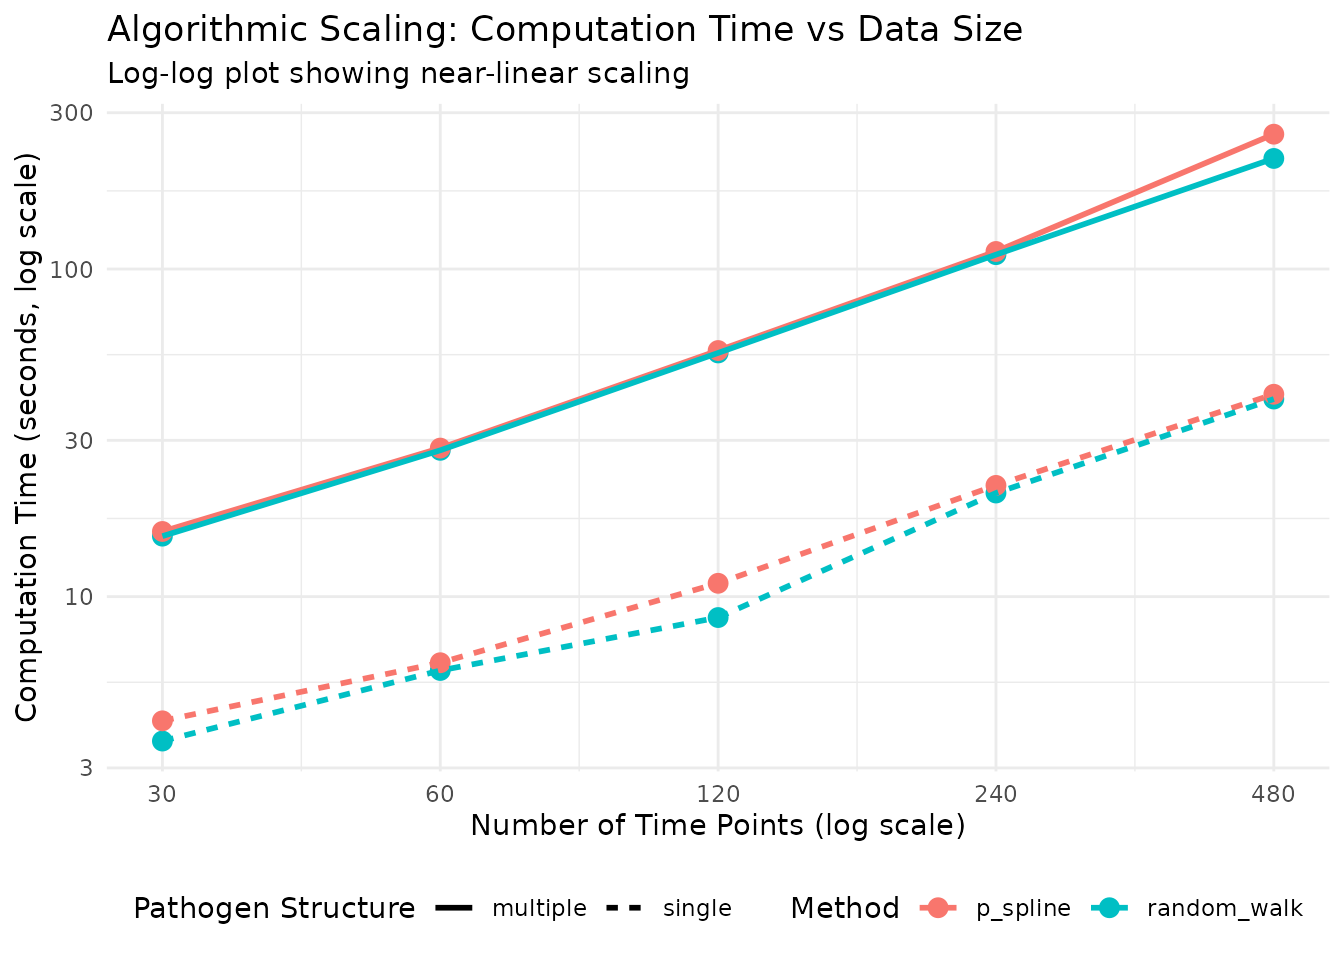
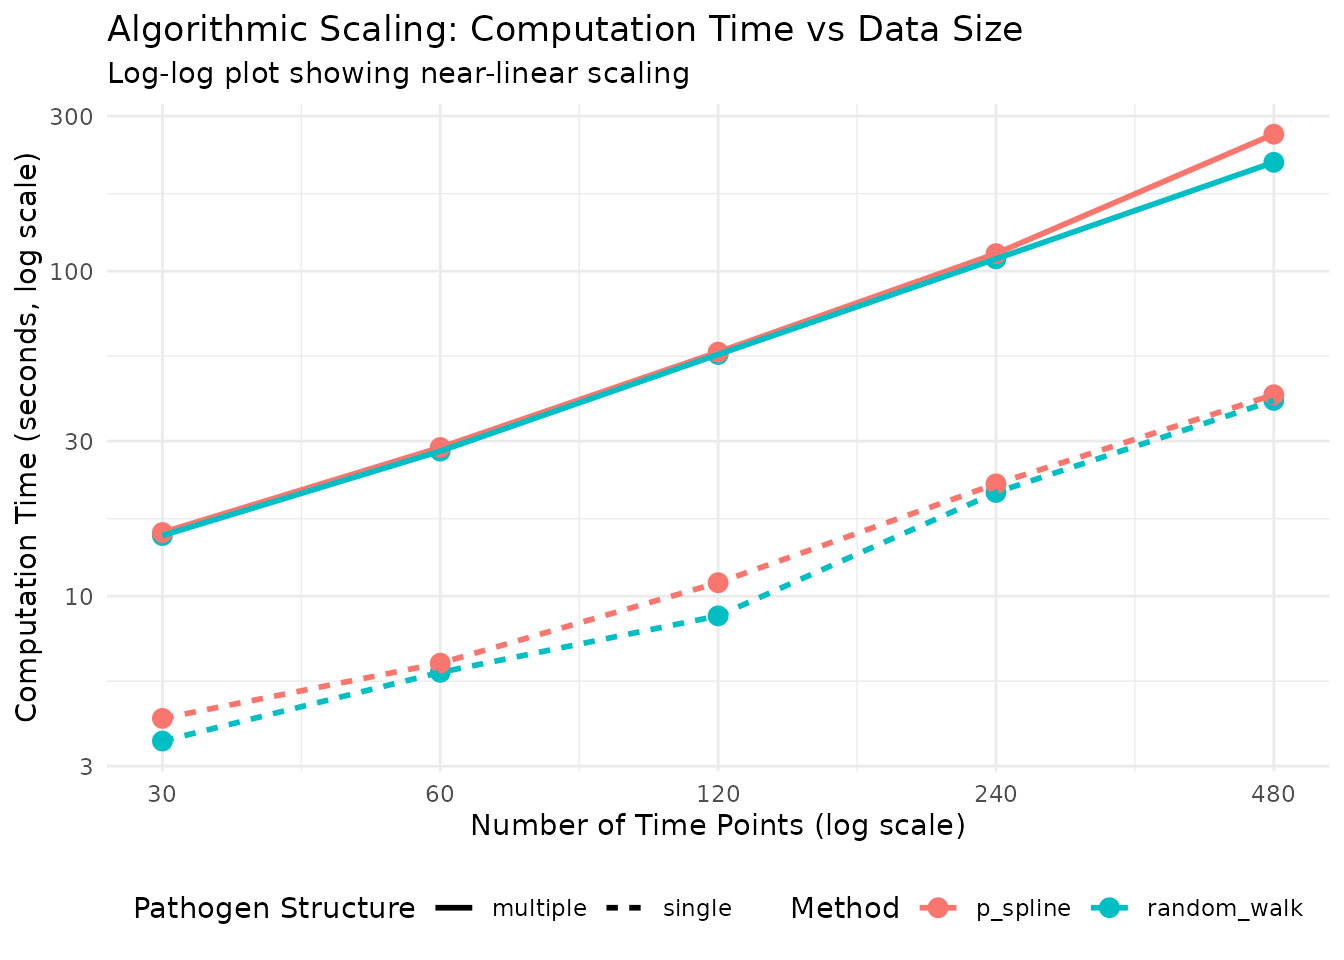
Deploying to gh-pages from @ acefa-hubs/EpiStrainDynamics@f4903687015d1a57a504dbe9d887ee1e7ef48133 🚀

diff --git a/articles/algorithmic-scaling.html b/articles/algorithmic-scaling.html
@@ -68,7 +68,7 @@
       <h1>Algorithmic Scaling and Statistical Properties</h1>
             
       
-      <small class="dont-index">Source: <a href="https://github.com/acefa-hubs/EpiStrainDynamics/blob/test-fixtures-v1/vignettes/articles/algorithmic-scaling.Rmd" class="external-link"><code>vignettes/articles/algorithmic-scaling.Rmd</code></a></small>
+      <small class="dont-index">Source: <a href="https://github.com/acefa-hubs/EpiStrainDynamics/blob/main/vignettes/articles/algorithmic-scaling.Rmd" class="external-link"><code>vignettes/articles/algorithmic-scaling.Rmd</code></a></small>
       <div class="d-none name"><code>algorithmic-scaling.Rmd</code></div>
     </div>
 
@@ -372,26 +372,26 @@ O(n^exponent)</caption>
 <tr class="odd">
 <td align="left">p_spline</td>
 <td align="left">multiple</td>
-<td align="right">1.005</td>
+<td align="right">1.012</td>
 <td align="right">0.996</td>
 </tr>
 <tr class="even">
 <td align="left">p_spline</td>
 <td align="left">single</td>
-<td align="right">0.842</td>
-<td align="right">0.991</td>
+<td align="right">0.845</td>
+<td align="right">0.990</td>
 </tr>
 <tr class="odd">
 <td align="left">random_walk</td>
 <td align="left">multiple</td>
-<td align="right">0.964</td>
+<td align="right">0.959</td>
 <td align="right">0.999</td>
 </tr>
 <tr class="even">
 <td align="left">random_walk</td>
 <td align="left">single</td>
-<td align="right">0.874</td>
-<td align="right">0.980</td>
+<td align="right">0.880</td>
+<td align="right">0.981</td>
 </tr>
 </tbody>
 </table>

diff --git a/reference/smoothing_structure.html b/reference/smoothing_structure.html
@@ -42,7 +42,7 @@ both the smoothing structure and associated priors for EpiStrainDynamics models.
   <main id="main" class="col-md-9"><div class="page-header">
 
       <h1>Create Smoothing Structure Specification with Priors</h1>
-      <small class="dont-index">Source: <a href="https://github.com/acefa-hubs/EpiStrainDynamics/blob/test-fixtures-v1/R/smoothing_dispersion_structure.r" class="external-link"><code>R/smoothing_dispersion_structure.r</code></a></small>
+      <small class="dont-index">Source: <a href="https://github.com/acefa-hubs/EpiStrainDynamics/blob/main/R/smoothing_dispersion_structure.r" class="external-link"><code>R/smoothing_dispersion_structure.r</code></a></small>
       <div class="d-none name"><code>smoothing_structure.Rd</code></div>
     </div>
 

diff --git a/reference/dispersion_structure.html b/reference/dispersion_structure.html
@@ -44,7 +44,7 @@ the case timeseries."></head><body>
   <main id="main" class="col-md-9"><div class="page-header">
 
       <h1>Create Dispersion Structure Specification</h1>
-      <small class="dont-index">Source: <a href="https://github.com/acefa-hubs/EpiStrainDynamics/blob/test-fixtures-v1/R/smoothing_dispersion_structure.r" class="external-link"><code>R/smoothing_dispersion_structure.r</code></a></small>
+      <small class="dont-index">Source: <a href="https://github.com/acefa-hubs/EpiStrainDynamics/blob/main/R/smoothing_dispersion_structure.r" class="external-link"><code>R/smoothing_dispersion_structure.r</code></a></small>
       <div class="d-none name"><code>dispersion_structure.Rd</code></div>
     </div>
 

diff --git a/reference/proportion.html b/reference/proportion.html
@@ -48,7 +48,7 @@ $$P_t = \frac{I_{\text{numerator}}(t)}{I_{\text{denominator}}(t)}$$"></head><bod
   <main id="main" class="col-md-9"><div class="page-header">
 
       <h1>Generic Method for proportion Analysis</h1>
-      <small class="dont-index">Source: <a href="https://github.com/acefa-hubs/EpiStrainDynamics/blob/test-fixtures-v1/R/proportion.R" class="external-link"><code>R/proportion.R</code></a></small>
+      <small class="dont-index">Source: <a href="https://github.com/acefa-hubs/EpiStrainDynamics/blob/main/R/proportion.R" class="external-link"><code>R/proportion.R</code></a></small>
       <div class="d-none name"><code>proportion.Rd</code></div>
     </div>
 

diff --git a/reference/influenza.html b/reference/influenza.html
@@ -58,7 +58,7 @@ causes which we do not have data to determine)."></head><body>
   <main id="main" class="col-md-9"><div class="page-header">
 
       <h1>World Health Organisation Global Influenza Programme for Australia</h1>
-      <small class="dont-index">Source: <a href="https://github.com/acefa-hubs/EpiStrainDynamics/blob/test-fixtures-v1/R/data.R" class="external-link"><code>R/data.R</code></a></small>
+      <small class="dont-index">Source: <a href="https://github.com/acefa-hubs/EpiStrainDynamics/blob/main/R/data.R" class="external-link"><code>R/data.R</code></a></small>
       <div class="d-none name"><code>influenza.Rd</code></div>
     </div>
 

diff --git a/articles/parameter-recovery.html b/articles/parameter-recovery.html
@@ -68,7 +68,7 @@
       <h1>Parameter Recovery Tests</h1>
             
       
-      <small class="dont-index">Source: <a href="https://github.com/acefa-hubs/EpiStrainDynamics/blob/test-fixtures-v1/vignettes/articles/parameter-recovery.Rmd" class="external-link"><code>vignettes/articles/parameter-recovery.Rmd</code></a></small>
+      <small class="dont-index">Source: <a href="https://github.com/acefa-hubs/EpiStrainDynamics/blob/main/vignettes/articles/parameter-recovery.Rmd" class="external-link"><code>vignettes/articles/parameter-recovery.Rmd</code></a></small>
       <div class="d-none name"><code>parameter-recovery.Rmd</code></div>
     </div>
 

diff --git a/reference/growth_rate.html b/reference/growth_rate.html
@@ -46,7 +46,7 @@ where \(I_t\) is incidence at time t."></head><body>
   <main id="main" class="col-md-9"><div class="page-header">
 
       <h1>Generic Method for Growth Rate Analysis</h1>
-      <small class="dont-index">Source: <a href="https://github.com/acefa-hubs/EpiStrainDynamics/blob/test-fixtures-v1/R/growth_rate.R" class="external-link"><code>R/growth_rate.R</code></a></small>
+      <small class="dont-index">Source: <a href="https://github.com/acefa-hubs/EpiStrainDynamics/blob/main/R/growth_rate.R" class="external-link"><code>R/growth_rate.R</code></a></small>
       <div class="d-none name"><code>growth_rate.Rd</code></div>
     </div>
 

diff --git a/reference/sarscov2.html b/reference/sarscov2.html
@@ -52,7 +52,7 @@ consistent with any of the major lineage calls."></head><body>
   <main id="main" class="col-md-9"><div class="page-header">
 
       <h1>United Kingdom Health Security Agency SARS-CoV-2 case data</h1>
-      <small class="dont-index">Source: <a href="https://github.com/acefa-hubs/EpiStrainDynamics/blob/test-fixtures-v1/R/data.R" class="external-link"><code>R/data.R</code></a></small>
+      <small class="dont-index">Source: <a href="https://github.com/acefa-hubs/EpiStrainDynamics/blob/main/R/data.R" class="external-link"><code>R/data.R</code></a></small>
       <div class="d-none name"><code>sarscov2.Rd</code></div>
     </div>
 

diff --git a/articles/Using-EpiStrainDynamics.html b/articles/Using-EpiStrainDynamics.html
@@ -68,7 +68,7 @@
       <h1>Using EpiStrainDynamics</h1>
             
       
-      <small class="dont-index">Source: <a href="https://github.com/acefa-hubs/EpiStrainDynamics/blob/test-fixtures-v1/vignettes/Using-EpiStrainDynamics.Rmd" class="external-link"><code>vignettes/Using-EpiStrainDynamics.Rmd</code></a></small>
+      <small class="dont-index">Source: <a href="https://github.com/acefa-hubs/EpiStrainDynamics/blob/main/vignettes/Using-EpiStrainDynamics.Rmd" class="external-link"><code>vignettes/Using-EpiStrainDynamics.Rmd</code></a></small>
       <div class="d-none name"><code>Using-EpiStrainDynamics.Rmd</code></div>
     </div>
 

diff --git a/reference/incidence.html b/reference/incidence.html
@@ -46,7 +46,7 @@ $$I_t = \exp(\log\text{-incidence}_t)$$"></head><body>
   <main id="main" class="col-md-9"><div class="page-header">
 
       <h1>Generic Method for Incidence Analysis</h1>
-      <small class="dont-index">Source: <a href="https://github.com/acefa-hubs/EpiStrainDynamics/blob/test-fixtures-v1/R/incidence.R" class="external-link"><code>R/incidence.R</code></a></small>
+      <small class="dont-index">Source: <a href="https://github.com/acefa-hubs/EpiStrainDynamics/blob/main/R/incidence.R" class="external-link"><code>R/incidence.R</code></a></small>
       <div class="d-none name"><code>incidence.Rd</code></div>
     </div>
 

diff --git a/reference/random_walk.html b/reference/random_walk.html
@@ -50,7 +50,7 @@ arguments must be supplied to define the random walk method."></head><body>
   <main id="main" class="col-md-9"><div class="page-header">
 
       <h1>Specify random walk method</h1>
-      <small class="dont-index">Source: <a href="https://github.com/acefa-hubs/EpiStrainDynamics/blob/test-fixtures-v1/R/method.R" class="external-link"><code>R/method.R</code></a></small>
+      <small class="dont-index">Source: <a href="https://github.com/acefa-hubs/EpiStrainDynamics/blob/main/R/method.R" class="external-link"><code>R/method.R</code></a></small>
       <div class="d-none name"><code>random_walk.Rd</code></div>
     </div>
 

diff --git a/reference/p_spline.html b/reference/p_spline.html
@@ -48,7 +48,7 @@ enough temporal resolution) while not being too computationally expensive."></he
   <main id="main" class="col-md-9"><div class="page-header">
 
       <h1>Specify p_spline method</h1>
-      <small class="dont-index">Source: <a href="https://github.com/acefa-hubs/EpiStrainDynamics/blob/test-fixtures-v1/R/method.R" class="external-link"><code>R/method.R</code></a></small>
+      <small class="dont-index">Source: <a href="https://github.com/acefa-hubs/EpiStrainDynamics/blob/main/R/method.R" class="external-link"><code>R/method.R</code></a></small>
       <div class="d-none name"><code>p_spline.Rd</code></div>
     </div>
 
